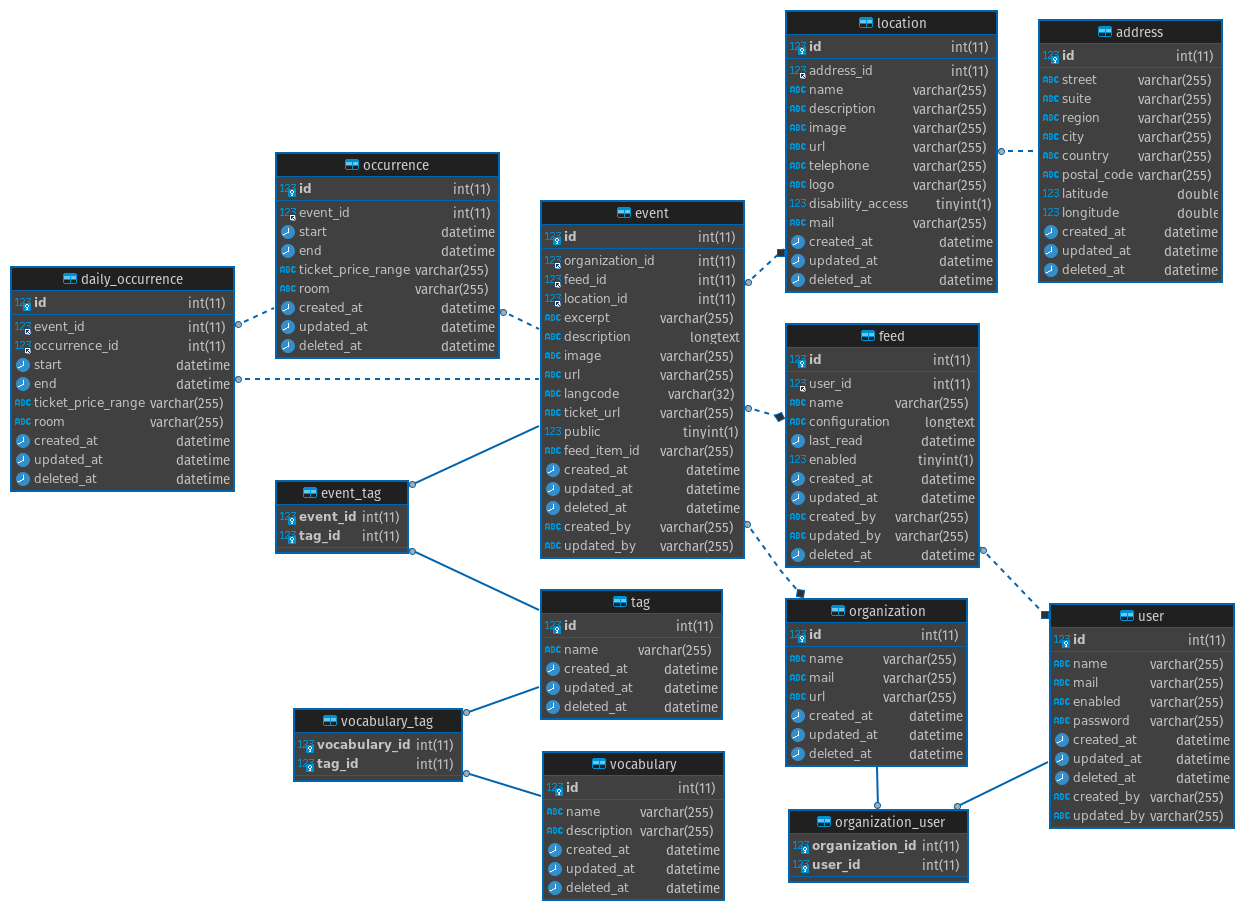
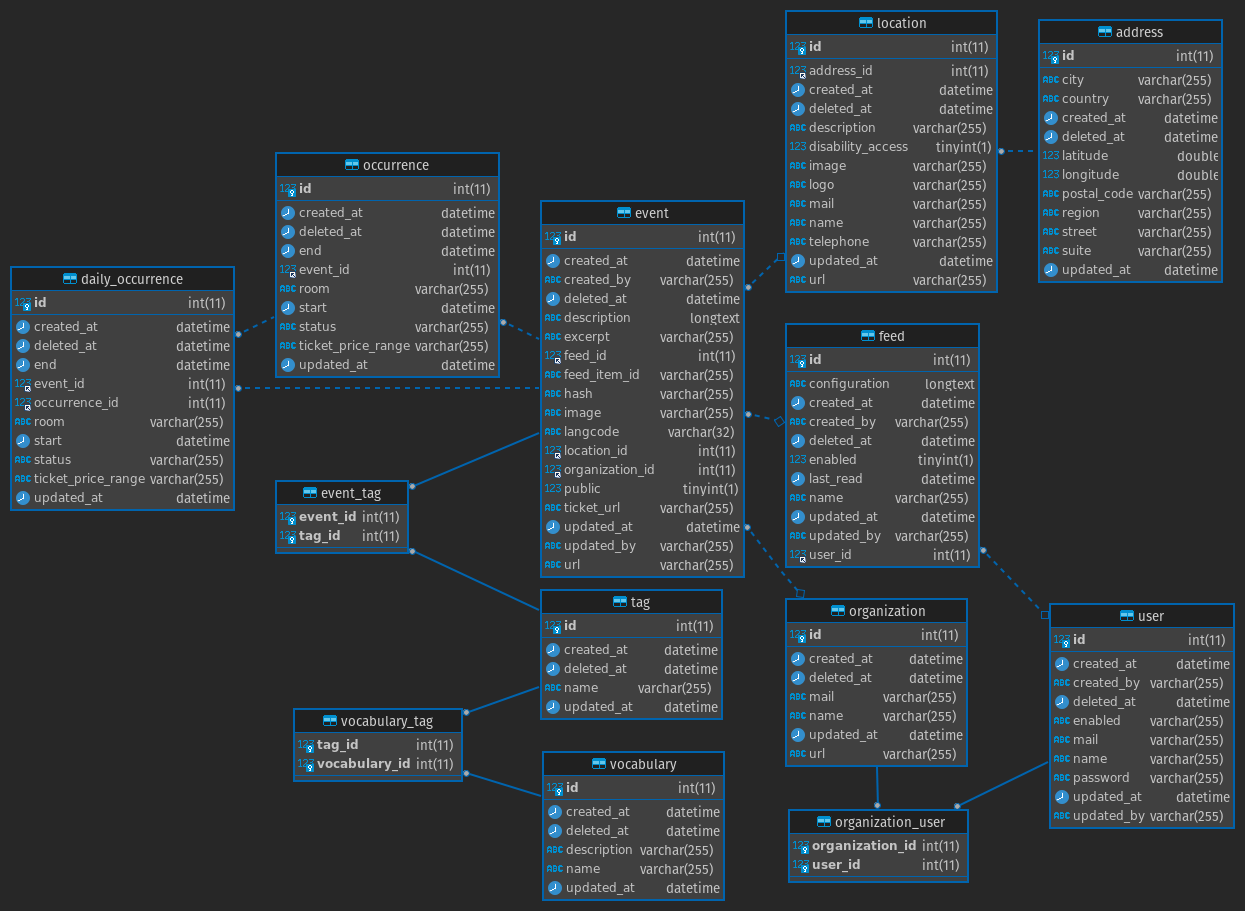
EV-246: Updated entity model

diff --git a/migrations/Version20230704085213.php b/migrations/Version20230704085213.php
@@ -10,7 +10,7 @@ use Doctrine\Migrations\AbstractMigration;
 /**
  * Auto-generated Migration: Please modify to your needs!
  */
-final class Version20230704081836 extends AbstractMigration
+final class Version20230704085213 extends AbstractMigration
 {
     public function getDescription(): string
     {
@@ -21,12 +21,12 @@ final class Version20230704081836 extends AbstractMigration
     {
         // this up() migration is auto-generated, please modify it to your needs
         $this->addSql('CREATE TABLE address (id INT AUTO_INCREMENT NOT NULL, street VARCHAR(255) NOT NULL, suite VARCHAR(255) DEFAULT NULL, region VARCHAR(255) DEFAULT NULL, city VARCHAR(255) NOT NULL, country VARCHAR(255) DEFAULT NULL, postal_code VARCHAR(255) NOT NULL, latitude DOUBLE PRECISION DEFAULT NULL, longitude DOUBLE PRECISION DEFAULT NULL, created_at DATETIME NOT NULL, updated_at DATETIME NOT NULL, deleted_at DATETIME DEFAULT NULL, PRIMARY KEY(id)) DEFAULT CHARACTER SET utf8mb4 COLLATE `utf8mb4_unicode_ci` ENGINE = InnoDB');
-        $this->addSql('CREATE TABLE daily_occurrence (id INT AUTO_INCREMENT NOT NULL, event_id INT NOT NULL, occurrence_id INT NOT NULL, start DATETIME NOT NULL COMMENT \'(DC2Type:datetime_immutable)\', end DATETIME NOT NULL COMMENT \'(DC2Type:datetime_immutable)\', ticket_price_range VARCHAR(255) NOT NULL, room VARCHAR(255) DEFAULT NULL, created_at DATETIME NOT NULL, updated_at DATETIME NOT NULL, deleted_at DATETIME DEFAULT NULL, INDEX IDX_431E7C9071F7E88B (event_id), INDEX IDX_431E7C9030572FAC (occurrence_id), PRIMARY KEY(id)) DEFAULT CHARACTER SET utf8mb4 COLLATE `utf8mb4_unicode_ci` ENGINE = InnoDB');
-        $this->addSql('CREATE TABLE event (id INT AUTO_INCREMENT NOT NULL, organization_id INT DEFAULT NULL, feed_id INT DEFAULT NULL, location_id INT DEFAULT NULL, excerpt VARCHAR(255) DEFAULT NULL, description LONGTEXT NOT NULL, image VARCHAR(255) DEFAULT NULL, url VARCHAR(255) NOT NULL, langcode VARCHAR(32) DEFAULT NULL, ticket_url VARCHAR(255) DEFAULT NULL, public TINYINT(1) NOT NULL, feed_item_id VARCHAR(255) DEFAULT NULL, created_at DATETIME NOT NULL, updated_at DATETIME NOT NULL, deleted_at DATETIME DEFAULT NULL, created_by VARCHAR(255) DEFAULT NULL, updated_by VARCHAR(255) DEFAULT NULL, INDEX IDX_3BAE0AA732C8A3DE (organization_id), INDEX IDX_3BAE0AA751A5BC03 (feed_id), INDEX IDX_3BAE0AA764D218E (location_id), PRIMARY KEY(id)) DEFAULT CHARACTER SET utf8mb4 COLLATE `utf8mb4_unicode_ci` ENGINE = InnoDB');
+        $this->addSql('CREATE TABLE daily_occurrence (id INT AUTO_INCREMENT NOT NULL, event_id INT NOT NULL, occurrence_id INT NOT NULL, start DATETIME NOT NULL COMMENT \'(DC2Type:datetime_immutable)\', end DATETIME NOT NULL COMMENT \'(DC2Type:datetime_immutable)\', ticket_price_range VARCHAR(255) NOT NULL, room VARCHAR(255) DEFAULT NULL, status VARCHAR(255) DEFAULT NULL, created_at DATETIME NOT NULL, updated_at DATETIME NOT NULL, deleted_at DATETIME DEFAULT NULL, INDEX IDX_431E7C9071F7E88B (event_id), INDEX IDX_431E7C9030572FAC (occurrence_id), PRIMARY KEY(id)) DEFAULT CHARACTER SET utf8mb4 COLLATE `utf8mb4_unicode_ci` ENGINE = InnoDB');
+        $this->addSql('CREATE TABLE event (id INT AUTO_INCREMENT NOT NULL, organization_id INT DEFAULT NULL, feed_id INT DEFAULT NULL, location_id INT DEFAULT NULL, excerpt VARCHAR(255) DEFAULT NULL, description LONGTEXT NOT NULL, image VARCHAR(255) DEFAULT NULL, url VARCHAR(255) NOT NULL, langcode VARCHAR(32) DEFAULT NULL, ticket_url VARCHAR(255) DEFAULT NULL, public TINYINT(1) NOT NULL, feed_item_id VARCHAR(255) DEFAULT NULL, hash VARCHAR(255) NOT NULL, created_at DATETIME NOT NULL, updated_at DATETIME NOT NULL, deleted_at DATETIME DEFAULT NULL, created_by VARCHAR(255) DEFAULT NULL, updated_by VARCHAR(255) DEFAULT NULL, INDEX IDX_3BAE0AA732C8A3DE (organization_id), INDEX IDX_3BAE0AA751A5BC03 (feed_id), INDEX IDX_3BAE0AA764D218E (location_id), PRIMARY KEY(id)) DEFAULT CHARACTER SET utf8mb4 COLLATE `utf8mb4_unicode_ci` ENGINE = InnoDB');
         $this->addSql('CREATE TABLE event_tag (event_id INT NOT NULL, tag_id INT NOT NULL, INDEX IDX_1246725071F7E88B (event_id), INDEX IDX_12467250BAD26311 (tag_id), PRIMARY KEY(event_id, tag_id)) DEFAULT CHARACTER SET utf8mb4 COLLATE `utf8mb4_unicode_ci` ENGINE = InnoDB');
         $this->addSql('CREATE TABLE feed (id INT AUTO_INCREMENT NOT NULL, user_id INT DEFAULT NULL, name VARCHAR(255) NOT NULL, configuration LONGTEXT NOT NULL COMMENT \'(DC2Type:json)\', last_read DATETIME NOT NULL COMMENT \'(DC2Type:datetime_immutable)\', enabled TINYINT(1) NOT NULL, created_at DATETIME NOT NULL, updated_at DATETIME NOT NULL, created_by VARCHAR(255) DEFAULT NULL, updated_by VARCHAR(255) DEFAULT NULL, deleted_at DATETIME DEFAULT NULL, INDEX IDX_234044ABA76ED395 (user_id), PRIMARY KEY(id)) DEFAULT CHARACTER SET utf8mb4 COLLATE `utf8mb4_unicode_ci` ENGINE = InnoDB');
         $this->addSql('CREATE TABLE location (id INT AUTO_INCREMENT NOT NULL, address_id INT NOT NULL, name VARCHAR(255) NOT NULL, description VARCHAR(255) NOT NULL, image VARCHAR(255) DEFAULT NULL, url VARCHAR(255) DEFAULT NULL, telephone VARCHAR(255) DEFAULT NULL, logo VARCHAR(255) DEFAULT NULL, disability_access TINYINT(1) NOT NULL, mail VARCHAR(255) DEFAULT NULL, created_at DATETIME NOT NULL, updated_at DATETIME NOT NULL, deleted_at DATETIME DEFAULT NULL, INDEX IDX_5E9E89CBF5B7AF75 (address_id), PRIMARY KEY(id)) DEFAULT CHARACTER SET utf8mb4 COLLATE `utf8mb4_unicode_ci` ENGINE = InnoDB');
-        $this->addSql('CREATE TABLE occurrence (id INT AUTO_INCREMENT NOT NULL, event_id INT NOT NULL, start DATETIME NOT NULL COMMENT \'(DC2Type:datetime_immutable)\', end DATETIME NOT NULL COMMENT \'(DC2Type:datetime_immutable)\', ticket_price_range VARCHAR(255) NOT NULL, room VARCHAR(255) DEFAULT NULL, created_at DATETIME NOT NULL, updated_at DATETIME NOT NULL, deleted_at DATETIME DEFAULT NULL, INDEX IDX_BEFD81F371F7E88B (event_id), PRIMARY KEY(id)) DEFAULT CHARACTER SET utf8mb4 COLLATE `utf8mb4_unicode_ci` ENGINE = InnoDB');
+        $this->addSql('CREATE TABLE occurrence (id INT AUTO_INCREMENT NOT NULL, event_id INT NOT NULL, start DATETIME NOT NULL COMMENT \'(DC2Type:datetime_immutable)\', end DATETIME NOT NULL COMMENT \'(DC2Type:datetime_immutable)\', ticket_price_range VARCHAR(255) NOT NULL, room VARCHAR(255) DEFAULT NULL, status VARCHAR(255) DEFAULT NULL, created_at DATETIME NOT NULL, updated_at DATETIME NOT NULL, deleted_at DATETIME DEFAULT NULL, INDEX IDX_BEFD81F371F7E88B (event_id), PRIMARY KEY(id)) DEFAULT CHARACTER SET utf8mb4 COLLATE `utf8mb4_unicode_ci` ENGINE = InnoDB');
         $this->addSql('CREATE TABLE organization (id INT AUTO_INCREMENT NOT NULL, name VARCHAR(255) NOT NULL, mail VARCHAR(255) NOT NULL, url VARCHAR(255) NOT NULL, created_at DATETIME NOT NULL, updated_at DATETIME NOT NULL, deleted_at DATETIME DEFAULT NULL, PRIMARY KEY(id)) DEFAULT CHARACTER SET utf8mb4 COLLATE `utf8mb4_unicode_ci` ENGINE = InnoDB');
         $this->addSql('CREATE TABLE organization_user (organization_id INT NOT NULL, user_id INT NOT NULL, INDEX IDX_B49AE8D432C8A3DE (organization_id), INDEX IDX_B49AE8D4A76ED395 (user_id), PRIMARY KEY(organization_id, user_id)) DEFAULT CHARACTER SET utf8mb4 COLLATE `utf8mb4_unicode_ci` ENGINE = InnoDB');
         $this->addSql('CREATE TABLE tag (id INT AUTO_INCREMENT NOT NULL, name VARCHAR(255) NOT NULL, created_at DATETIME NOT NULL, updated_at DATETIME NOT NULL, deleted_at DATETIME DEFAULT NULL, PRIMARY KEY(id)) DEFAULT CHARACTER SET utf8mb4 COLLATE `utf8mb4_unicode_ci` ENGINE = InnoDB');

diff --git a/src/Entity/Occurrence.php b/src/Entity/Occurrence.php
@@ -41,6 +41,9 @@ class Occurrence
     #[ORM\OneToMany(mappedBy: 'occurrence', targetEntity: DailyOccurrence::class, orphanRemoval: true)]
     private Collection $dailyOccurrences;
 
+    #[ORM\Column(length: 255, nullable: true)]
+    private ?string $status = null;
+
     public function __construct()
     {
         $this->dailyOccurrences = new ArrayCollection();
@@ -137,6 +140,18 @@ class Occurrence
                 $dailyOccurrence->setOccurrence(null);
             }
         }
+
+        return $this;
+    }
+
+    public function getStatus(): ?string
+    {
+        return $this->status;
+    }
+
+    public function setStatus(?string $status): static
+    {
+        $this->status = $status;
 
         return $this;
     }

diff --git a/src/Entity/DailyOccurrence.php b/src/Entity/DailyOccurrence.php
@@ -40,6 +40,9 @@ class DailyOccurrence
     #[ORM\JoinColumn(nullable: false)]
     private ?Occurrence $occurrence = null;
 
+    #[ORM\Column(length: 255, nullable: true)]
+    private ?string $status = null;
+
     public function getId(): ?int
     {
         return $this->id;
@@ -113,6 +116,18 @@ class DailyOccurrence
     public function setOccurrence(?Occurrence $occurrence): static
     {
         $this->occurrence = $occurrence;
+
+        return $this;
+    }
+
+    public function getStatus(): ?string
+    {
+        return $this->status;
+    }
+
+    public function setStatus(?string $status): static
+    {
+        $this->status = $status;
 
         return $this;
     }

diff --git a/src/Entity/Event.php b/src/Entity/Event.php
@@ -67,6 +67,9 @@ class Event
     #[ORM\ManyToOne(inversedBy: 'events')]
     private ?Location $location = null;
 
+    #[ORM\Column(length: 255)]
+    private ?string $hash = null;
+
     public function __construct()
     {
         $this->occurrences = new ArrayCollection();
@@ -291,6 +294,18 @@ class Event
     public function setLocation(?Location $location): static
     {
         $this->location = $location;
+
+        return $this;
+    }
+
+    public function getHash(): ?string
+    {
+        return $this->hash;
+    }
+
+    public function setHash(string $hash): static
+    {
+        $this->hash = $hash;
 
         return $this;
     }
